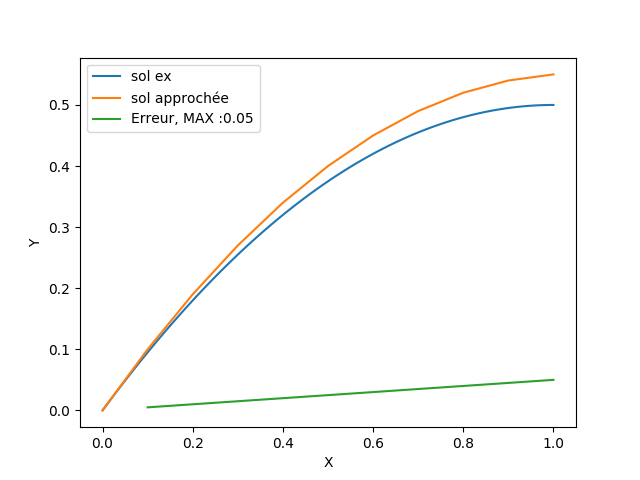
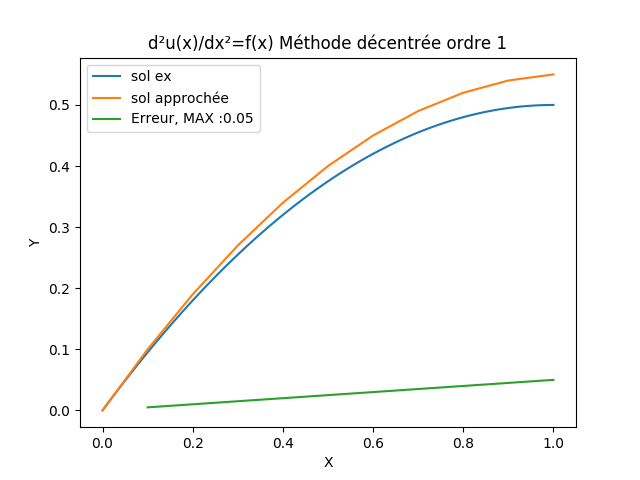
Fix typo

Changed region(s): [[0.2188, 0.0625, 0.7812, 0.125]]

diff --git a/TP1_error.py b/TP1_error.py
@@ -92,10 +92,10 @@ def Error_meth(m):
         plot(linspace(0,1,100),solex(linspace(0,1,100), ug, m), label = 'sol ex')
 
         # et le graphe de la solution approchée obtenue
+        if (meth == 1):
+            title('d²u(x)/dx²=f(x) Méthode décentrée ordre 1')
         if (meth == 2):
-            title('d²u(x)/dx²=f(x) Methode decentrée ordre 1')
-        if (meth == 2):
-            title('d²u(x)/dx²=f(x) Methode centrée ordre 2')
+            title('d²u(x)/dx²=f(x) Méthode centrée ordre 2')
             
 
         plot(X, Uh, label = 'sol approchée')
